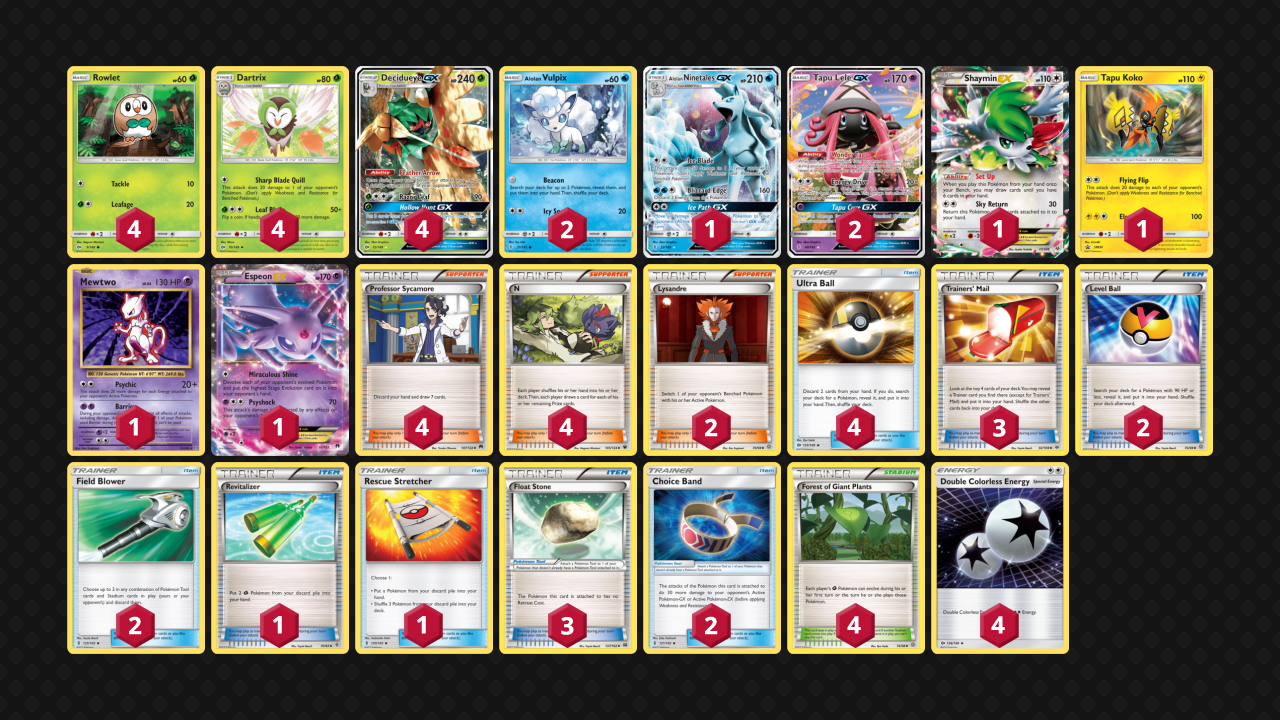
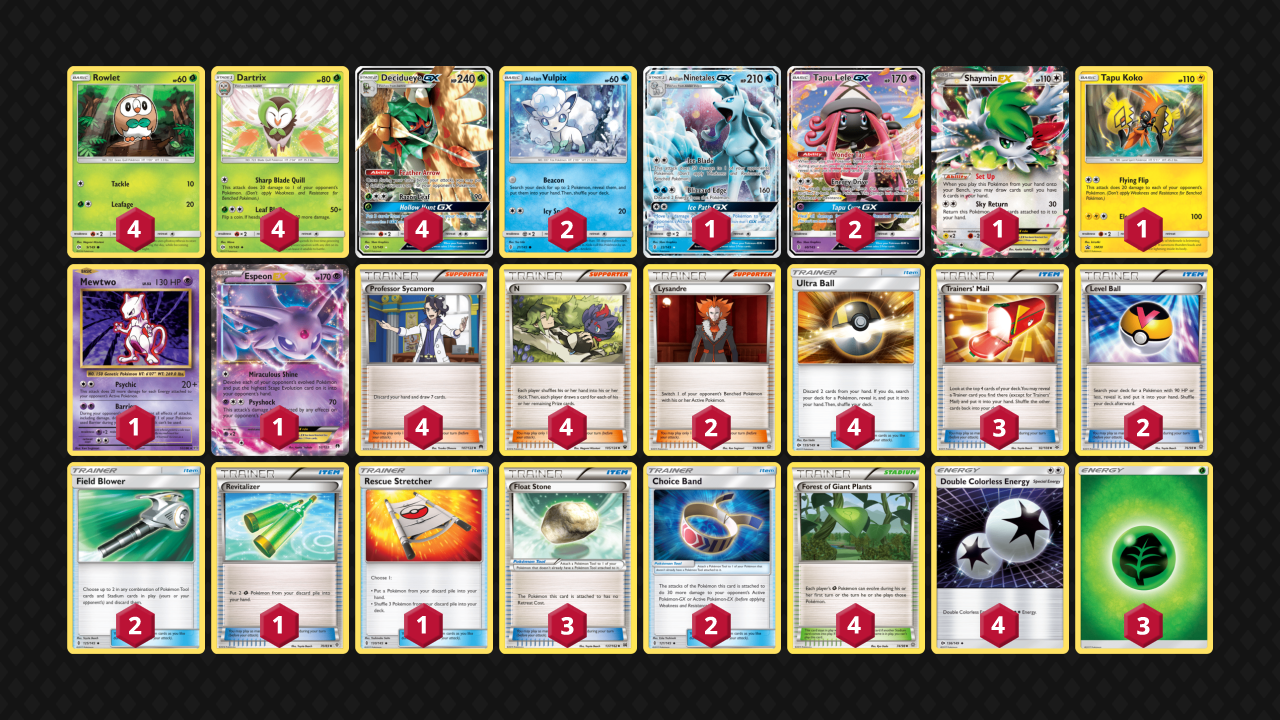
Fix missing energy in decklists

Changed region(s): [[0.8125, 0.6417, 0.9688, 0.9167]]

diff --git a/_decks/2019-blacephalon.md b/_decks/2019-blacephalon.md
@@ -4,7 +4,7 @@ layout: deck
 era: 2019
 description: 3rd Place NAIC 2019, Columbus - Masters - Nathaniel Kaplan
 links:
-  - href: https://limitlesstcg.com/decks/list/3221
+  - href: https://limitlesstcg.com/decks/list/2706
     title: Limitless Page
 cards:
   pokemon:
@@ -83,7 +83,7 @@ cards:
       quantity: 1
   energy:
     - name: Fire Energy
-      set: Energy
-      number: 28
+      set: SUM
+      number: R
       quantity: 13
 ---

diff --git a/_decks/2022-adp.md b/_decks/2022-adp.md
@@ -97,12 +97,12 @@ cards:
       number: 151
       quantity: 4
     - name: Lightning Energy
-      set: Energy
-      number: 48
+      set: SSH
+      number: L
       quantity: 4
     - name: Fighting Energy
-      set: Energy
-      number: 50
+      set: SSH
+      number: F
       quantity: 3
     - name: Capture Energy
       set: RCL

diff --git a/_decks/2018-bulu-vikavolt.md b/_decks/2018-bulu-vikavolt.md
@@ -87,11 +87,11 @@ cards:
       quantity: 4
   energy:
     - name: Grass Energy
-      set: Energy
-      number: 18
+      set: SUM
+      number: G
       quantity: 7
     - name: Lightning Energy
-      set: Energy
-      number: 21
+      set: SUM
+      number: L
       quantity: 5
 ---

diff --git a/_decks/2018-lost-march.md b/_decks/2018-lost-march.md
@@ -83,8 +83,8 @@ cards:
       number: 136
       quantity: 4
     - name: Grass Energy
-      set: Energy
-      number: 18
+      set: SUM
+      number: G
       quantity: 3
     - name: Super Boost Energy ♢
       set: UPR

diff --git a/_decks/2019-naganadel.md b/_decks/2019-naganadel.md
@@ -83,8 +83,8 @@ cards:
       quantity: 2
   energy:
     - name: Psychic Energy
-      set: Energy
-      number: 31
+      set: SUM
+      number: P
       quantity: 4
     - name: Darkness Energy
       set: Energy

diff --git a/_decks/2019-malamar-giratina.md b/_decks/2019-malamar-giratina.md
@@ -103,8 +103,8 @@ cards:
       quantity: 3
   energy:
     - name: Psychic Energy
-      set: Energy
-      number: 31
+      set: SUM
+      number: P
       quantity: 7
     - name: Recycle Energy
       set: UNM

diff --git a/_decks/2017-drampa-garb.md b/_decks/2017-drampa-garb.md
@@ -91,8 +91,8 @@ cards:
       quantity: 2
   energy:
     - name: Psychic Energy
-      set: Energy
-      number: 22
+      set: SUM
+      number: P
       quantity: 5
     - name: Rainbow Energy
       set: SUM

diff --git a/_decks/2022-cheryl-again.md b/_decks/2022-cheryl-again.md
@@ -129,7 +129,7 @@ cards:
       number: 140
       quantity: 4
     - name: Fighting Energy
-      set: Energy
-      number: 50
+      set: SSH
+      number: F
       quantity: 3
 ---

diff --git a/_decks/2017-decidueye-ninetales.md b/_decks/2017-decidueye-ninetales.md
@@ -103,7 +103,7 @@ cards:
       number: 136
       quantity: 4
     - name: Grass Energy
-      set: Energy
-      number: 18
+      set: SUM
+      number: G
       quantity: 3
 ---

diff --git a/_decks/2022-malamar-inteleon.md b/_decks/2022-malamar-inteleon.md
@@ -91,7 +91,7 @@ cards:
       number: 159
       quantity: 4
     - name: Psychic Energy
-      set: Energy
-      number: 49
+      set: SSH
+      number: P
       quantity: 2
 ---

diff --git a/_decks/2019-pikarom.md b/_decks/2019-pikarom.md
@@ -107,7 +107,7 @@ cards:
       quantity: 1
   energy:
     - name: Lightning Energy
-      set: Energy
-      number: 30
+      set: TEU
+      number: L
       quantity: 11
 ---

diff --git a/_decks/2009-machamp.md b/_decks/2009-machamp.md
@@ -104,7 +104,7 @@ cards:
   energy:
     - name: Fighting Energy
       set: DP
-      number: 126
+      number: 128
       quantity: 9
     - name: Call Energy
       set: MD
